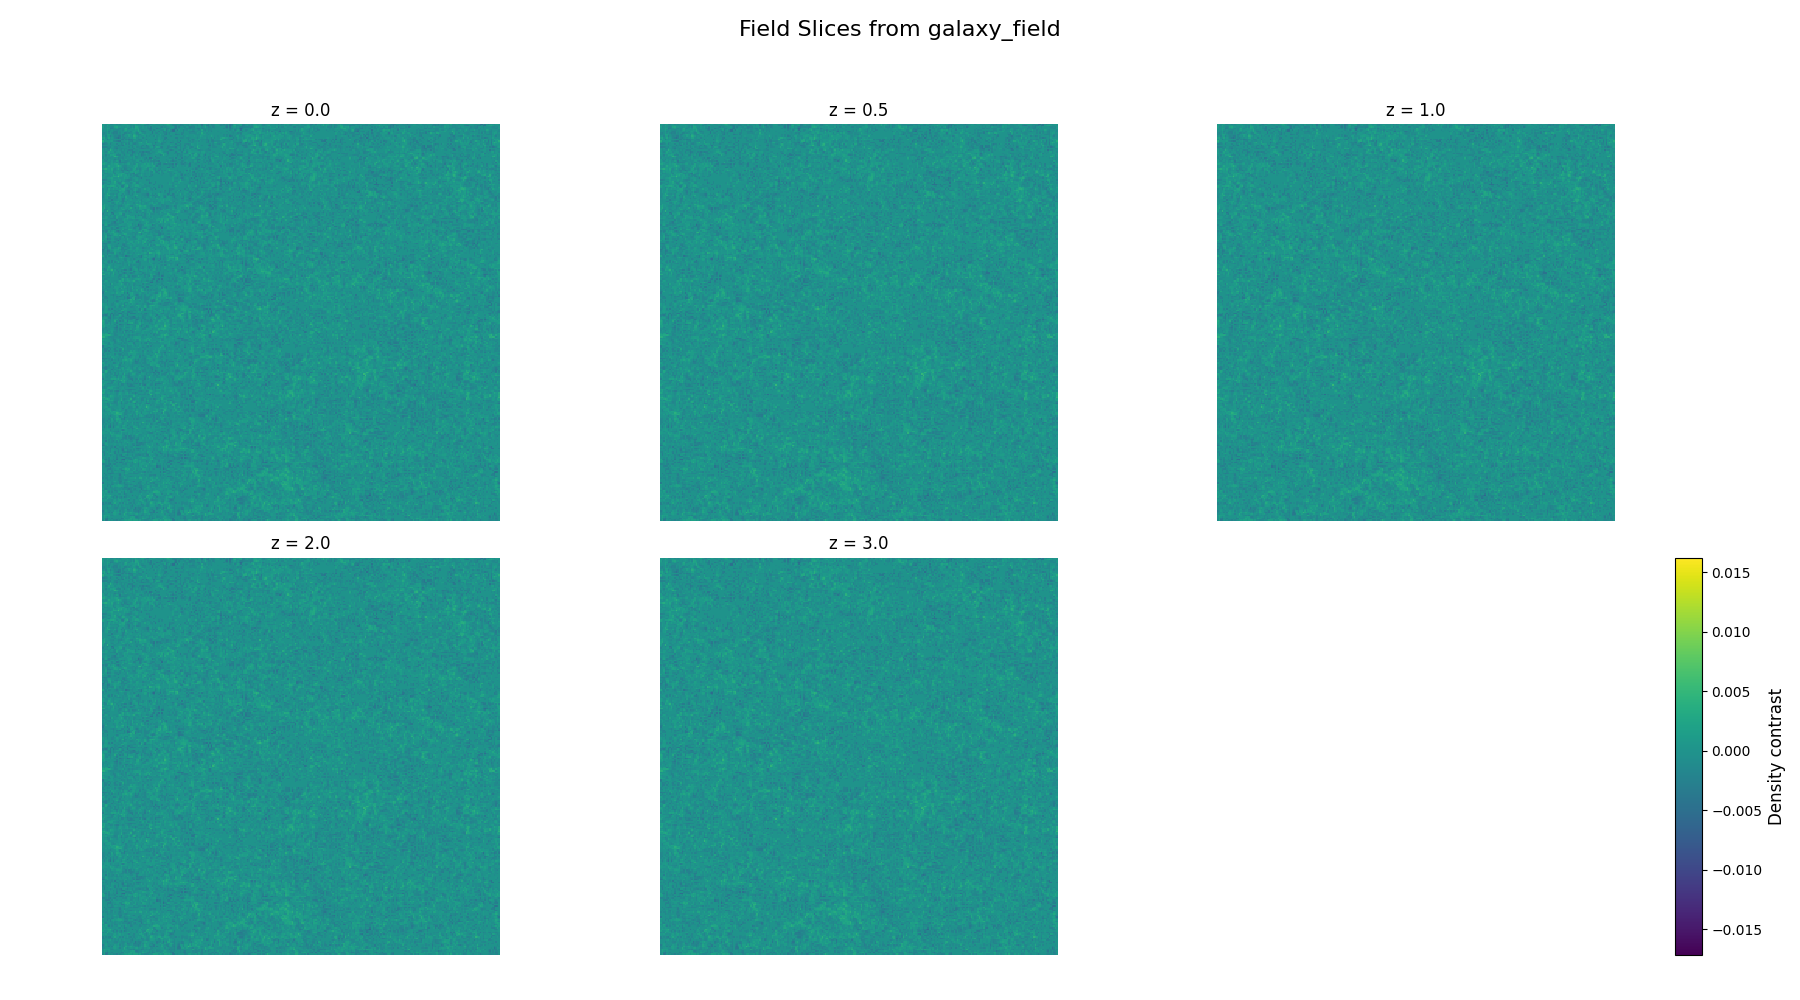
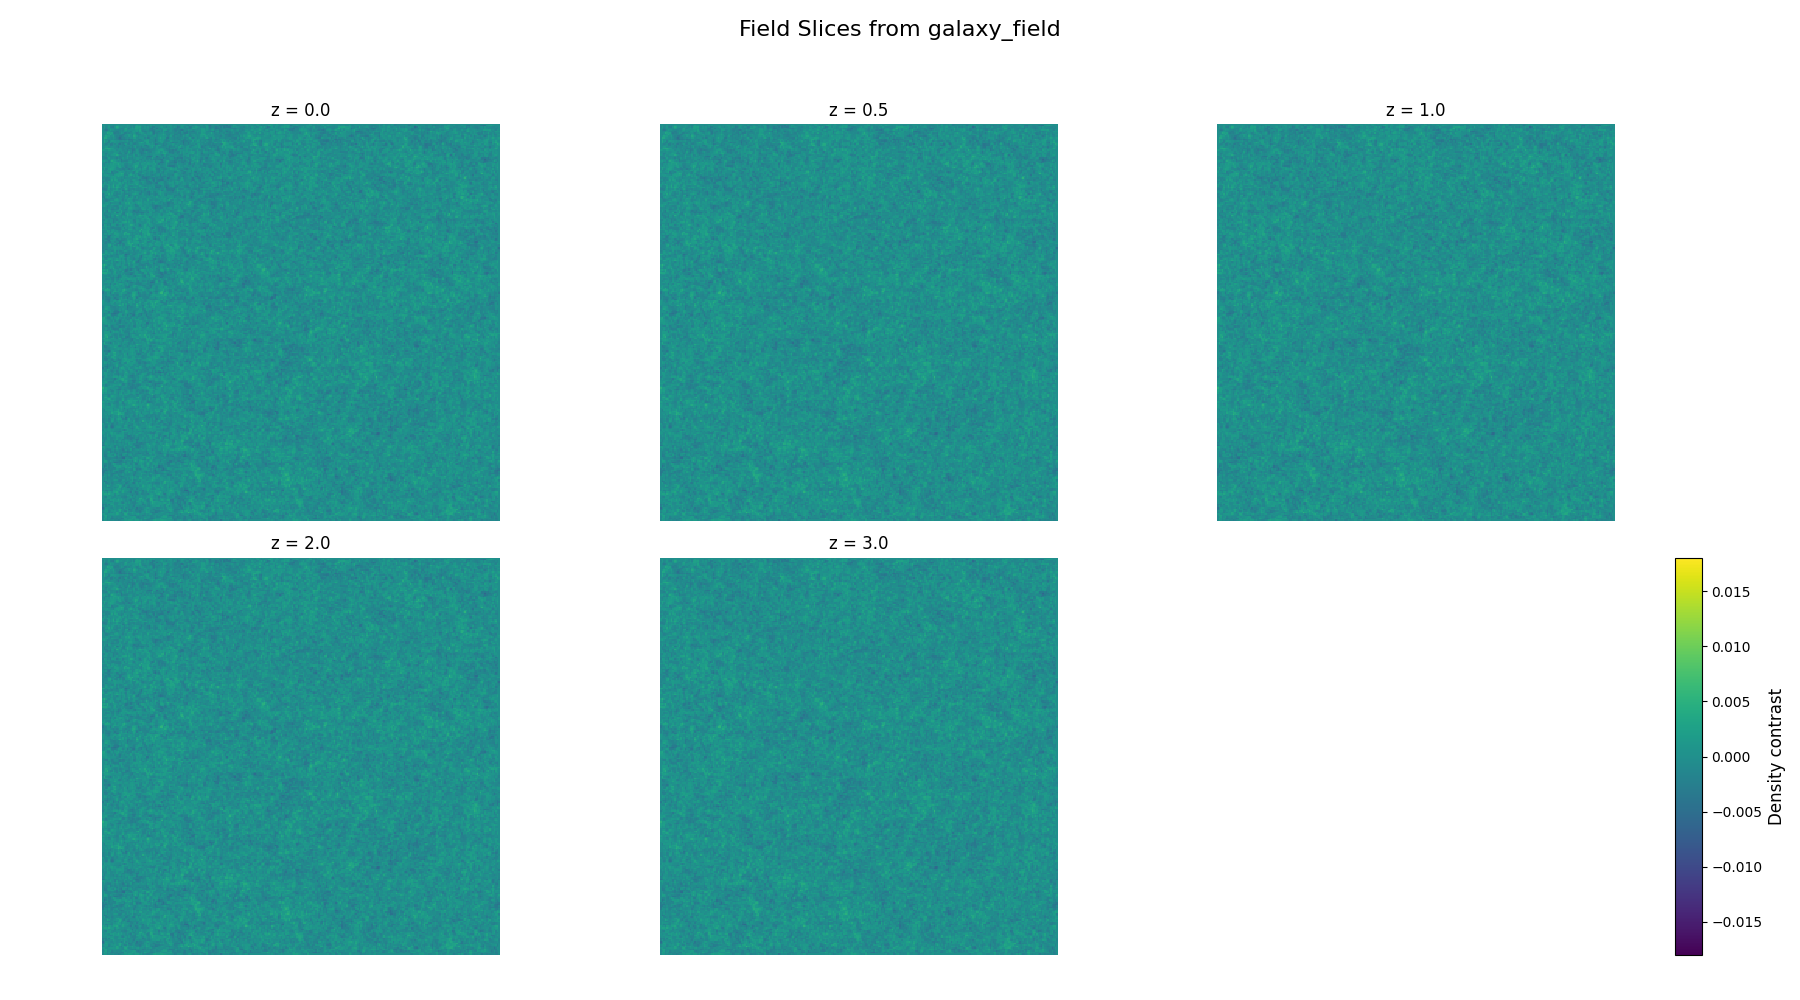
Update galaxy field outputs and scripts after implementing shot noise

Changed region(s): [[0.9333, 0.744, 0.9644, 0.775], [0.9333, 0.682, 0.9644, 0.713], [0.9333, 0.62, 0.9644, 0.651]]

diff --git a/src/galaxy_bias_expansion.py b/src/galaxy_bias_expansion.py
@@ -1,6 +1,7 @@
 import numpy as np
 import os
 import sys
+from scipy.interpolate import RegularGridInterpolator
 
 # Reference: Schmittfull et al. (2019)
 def extract_redshift(filename):
@@ -30,26 +31,28 @@ def displace_field(field, psi1):
     Displace a Lagrangian field O(q) to Eulerian space (where galaxies are observed):
     Implements the shifted operator (Eq. 17)
     Õ(x) where x = q + ψ1(q) (Eq. 16)
-    We use nearest-grid-point (NGP) assignment, i.e. displaced field is assigned to the nearest grid point.
+    Uses cloud-in-cell (CIC) interpolation for higher accuracy.
     """
     n_grid = field.shape[0] # size of x axis (same as y and z)
-    coords = np.indices((n_grid, n_grid, n_grid), dtype=float)
+    grid = np.arange(n_grid)
+
+    interpolator = RegularGridInterpolator((grid, grid, grid), field, bounds_error=False, fill_value=0)
+    coords = np.indices((n_grid, n_grid, n_grid), dtype=float)  # shape (3, n, n, n)
     displaced = coords + psi1  # shape (3, n, n, n)
     for i in range(3):
         displaced[i] = np.mod(displaced[i], n_grid)  # Periodic boundaries: mod(n) wraps around
 
-    displaced_idx = np.floor(displaced).astype(int)   # NGP: nearest grid point
-    displaced_idx = np.clip(displaced_idx, 0, n_grid - 1) #index can't go below 0 and above n_gri-1
-    x, y, z = displaced_idx
-    shifted_field = np.zeros_like(field)    # field of zeros
-    shifted_field[x, y, z] += field # Eq. 17 integral (numerical summation)
-    return shifted_field
+    points = np.stack([displaced[0].ravel(), displaced[1].ravel(), displaced[2].ravel()], axis=-1)  # shape (n^3, 3)
+    values = interpolator(points).reshape((n_grid, n_grid, n_grid)) #gives O(x) and reshapes to 3D grid
+    return values
 
-def galaxy_bias_field(delta, box_size, b1=1.5, b2=0.5):
+def galaxy_bias_field(delta, box_size, b1, b2, bG2, n_bar):
     """
-    Construct δh(x) = b1 * δ̃1(x) + b2 * δ̃2(x)
+    Construct δh(x) = b1 * δ̃1(x) + b2 * δ̃2(x) + bG2 * G̃2(x) + ε(x)
     - δ̃1(x): shifted linear field
     - δ̃2(x): shifted version of (δ^2 - <δ^2>)
+    - G̃2(x): shifted version of the tidal operator
+    - ε(x): shot noise
     Based on Equation (16)
     """
     n_grid = delta.shape[0]
@@ -65,12 +68,46 @@ def galaxy_bias_field(delta, box_size, b1=1.5, b2=0.5):
     delta_squared = delta**2
     delta_squared -= np.mean(delta_squared) # Eq. 8 and 9 
 
+    # Tidal operator G2
+    kf = 2 * np.pi / box_size   
+    k = np.fft.fftfreq(n_grid, d=1.0 / n_grid) * kf
+    kx, ky, kz = np.meshgrid(k, k, k, indexing='ij')
+    k_squared = kx**2 + ky**2 + kz**2
+    k_squared[0, 0, 0] = 1
+
+    # Poisson equation implicit in Eq. 10: ∇^2 φ(q) = δ(q)
+    phi_k = -delta_k / k_squared    # gravitational potential
+    phi = np.fft.ifftn(phi_k).real  # Inverse FFT to real space
+
+    tidal_tensor = {} # Nested loop to define all tensor components
+    for i, ki in enumerate([kx, ky, kz]):
+        for j, kj in enumerate([kx, ky, kz]):
+            Tij_k = -(ki * kj * phi_k) # second derivative in Fourier space w.r.t i, j
+            Tij_x = np.fft.ifftn(Tij_k).real    # converts to real space
+            tidal_tensor[(i, j)] = Tij_x    # stores in dictionary
+
+    laplacian_phi = np.fft.ifftn(-k_squared * phi_k).real   # Trace of tidal tensor
+    trace_squared = laplacian_phi**2    # Second term of Eq. 10
+    tidal_squared = sum(tidal_tensor[(i, j)]**2 for i in range(3) for j in range(3))   #First term of Eq. 10
+    G2 = tidal_squared - trace_squared  # Eq. 10
+    G2 -= np.mean(G2)   # Theoretically, G2 has zero mean already at large scales (Footnote 3)
+
     # Shift fields from Lagrangian q to Eulerian x using ψ1
     delta_shifted = displace_field(delta, psi1)
     delta2_shifted = displace_field(delta_squared, psi1)
+    G2_shifted = displace_field(G2, psi1)
 
     # Equation (16): bias expansion in real space
-    delta_h = b1 * delta_shifted + b2 * delta2_shifted
+    delta_h = b1 * delta_shifted + b2 * delta2_shifted + bG2 * G2_shifted
+
+    # Add shot noise term ε(x) ~ N(0, 1/n̄) if specified
+    if n_bar is not None:
+        volume = box_size**3
+        voxel_volume = volume / n_grid**3
+        noise_std = np.sqrt(1 / (n_bar * voxel_volume))  # Gaussian std per voxel
+        epsilon = np.random.normal(loc=0.0, scale=noise_std, size=delta.shape)  # scale such that P(k) is 1/n_bar; 3d grid.
+        delta_h += epsilon  # stochastic component
+
     return delta_h
 
 def main():
@@ -88,7 +125,8 @@ def main():
     os.makedirs(output_dir, exist_ok=True)
 
     box_size = 500.0
-    b1, b2 = 1.5, 0.5   #adjustable bias parameters
+    b1, b2, bG2 = 1.5, 0.5, 0.5   #adjustable bias parameters
+    n_bar = None
 
     for filename in sorted(os.listdir(input_dir)):
         if filename.endswith(".npy"):
@@ -101,7 +139,7 @@ def main():
 
             print(f"Computing δ_h for z = {z} using shifted operators (Eq. 16)")
 
-            delta_h = galaxy_bias_field(delta, box_size, b1, b2)
+            delta_h = galaxy_bias_field(delta, box_size, b1, b2, bG2, n_bar=n_bar)
 
             base = os.path.splitext(filename)[0]
             output_file = os.path.join(output_dir, f"{base}_galaxy.npy")

diff --git a/src/field_power_spectrum.py b/src/field_power_spectrum.py
@@ -43,7 +43,7 @@ def compute_power_spectrum(field, box_size):
 
     k_min = k_mag_nonzero.min()
     k_max = np.pi * n_grid / box_size  # Nyquist frequency
-    k_bins = np.logspace(np.log10(k_min), np.log10(k_max), num=10)
+    k_bins = np.logspace(np.log10(k_min), np.log10(k_max), num=6)
 
 
     # Bin power spectrum by |k| to get P(k)
